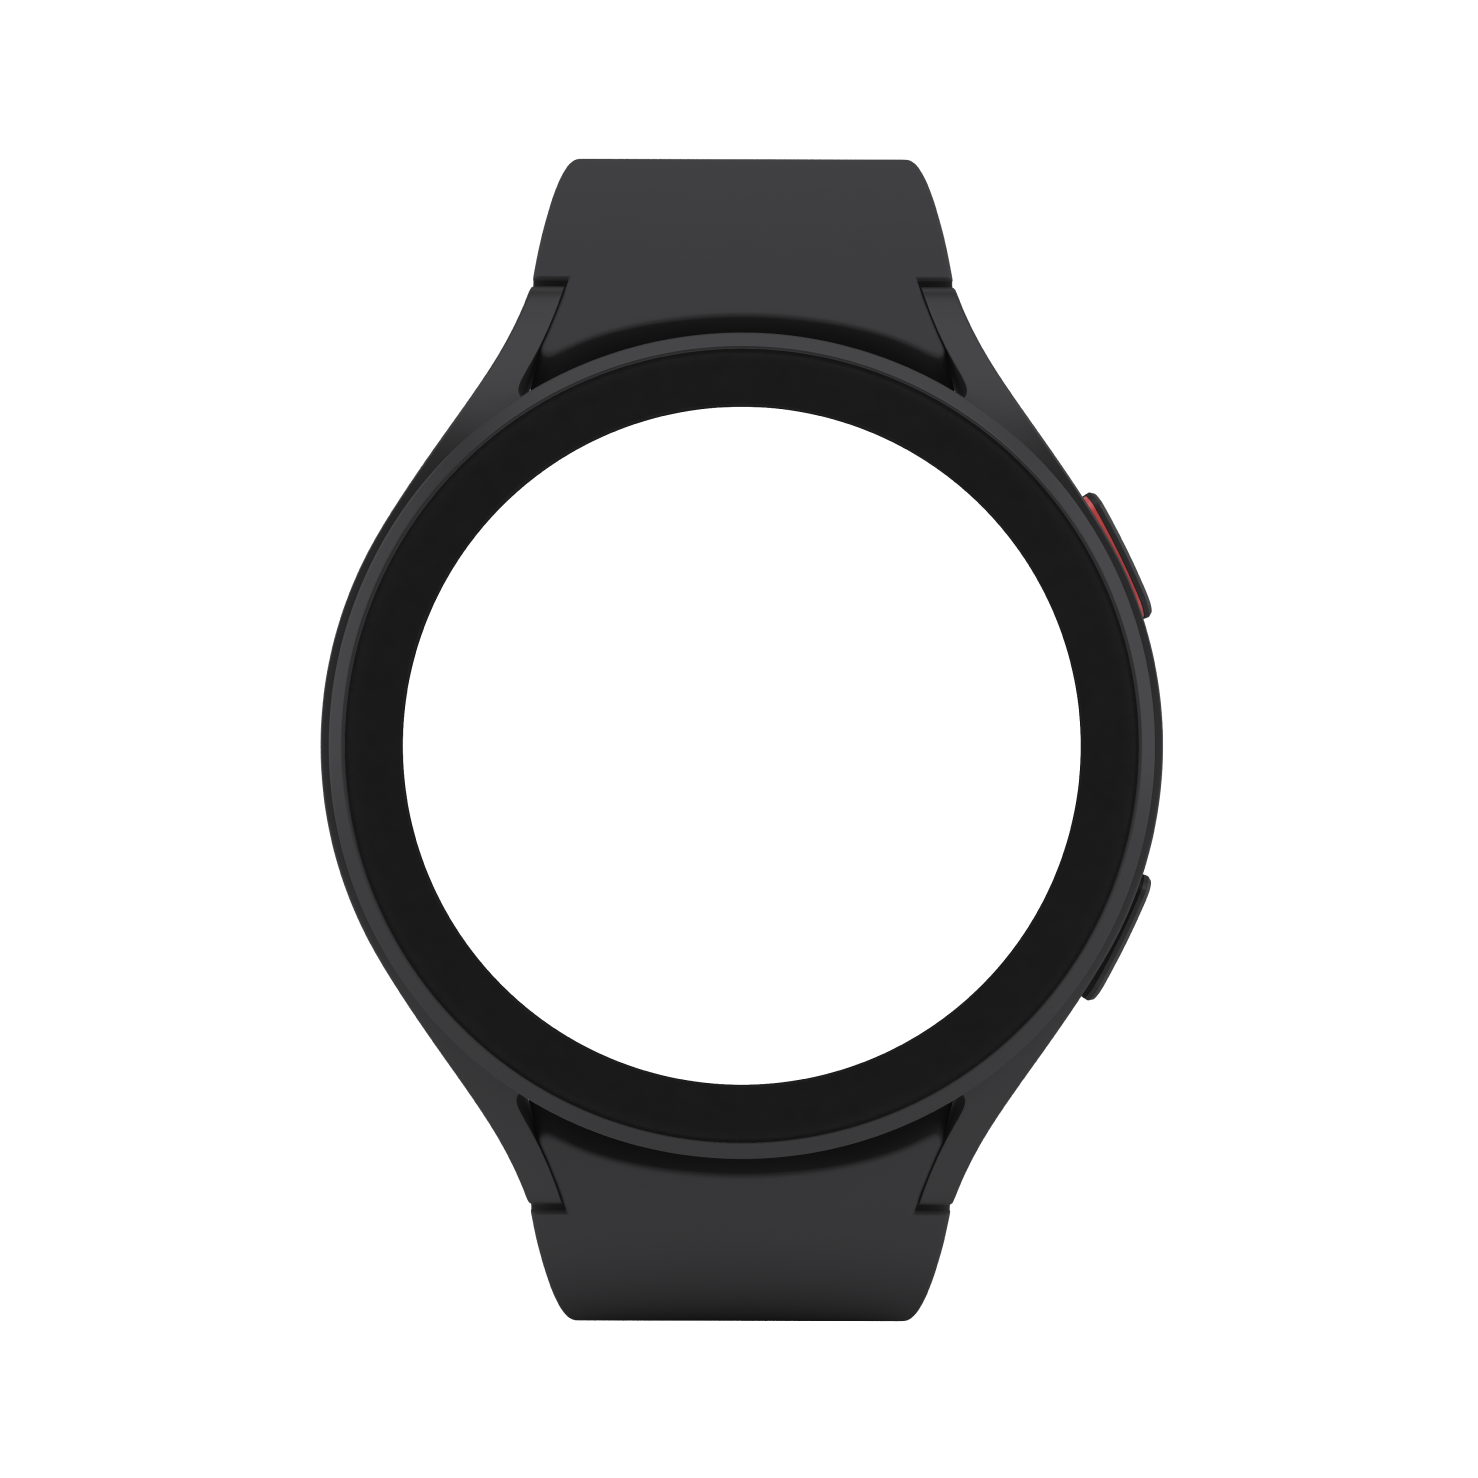
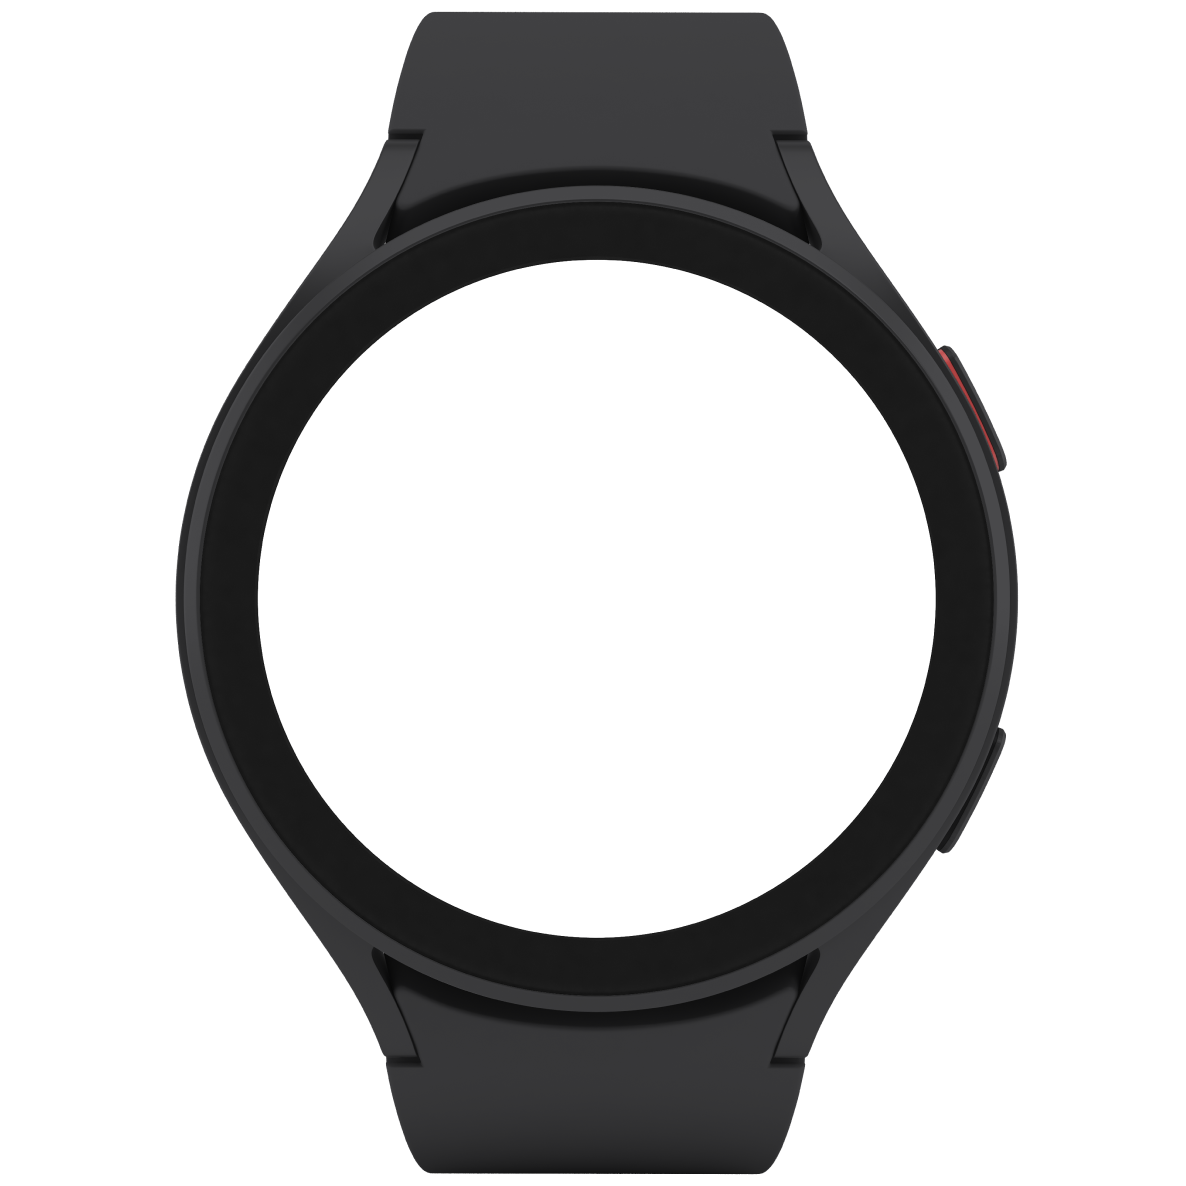
fix: fix style

diff --git a/src/pages/screenshot/style.module.scss b/src/pages/screenshot/style.module.scss
@@ -260,8 +260,8 @@
   }
 
   &.samsungGalaxyWatch4 {
-    --aspect-ratio: 1478/1478;
-    --drop-padding: 27%;
+    --aspect-ratio: 1186/1186;
+    --drop-padding: 20%;
     --drop-radius: 50%;
   }
 }
